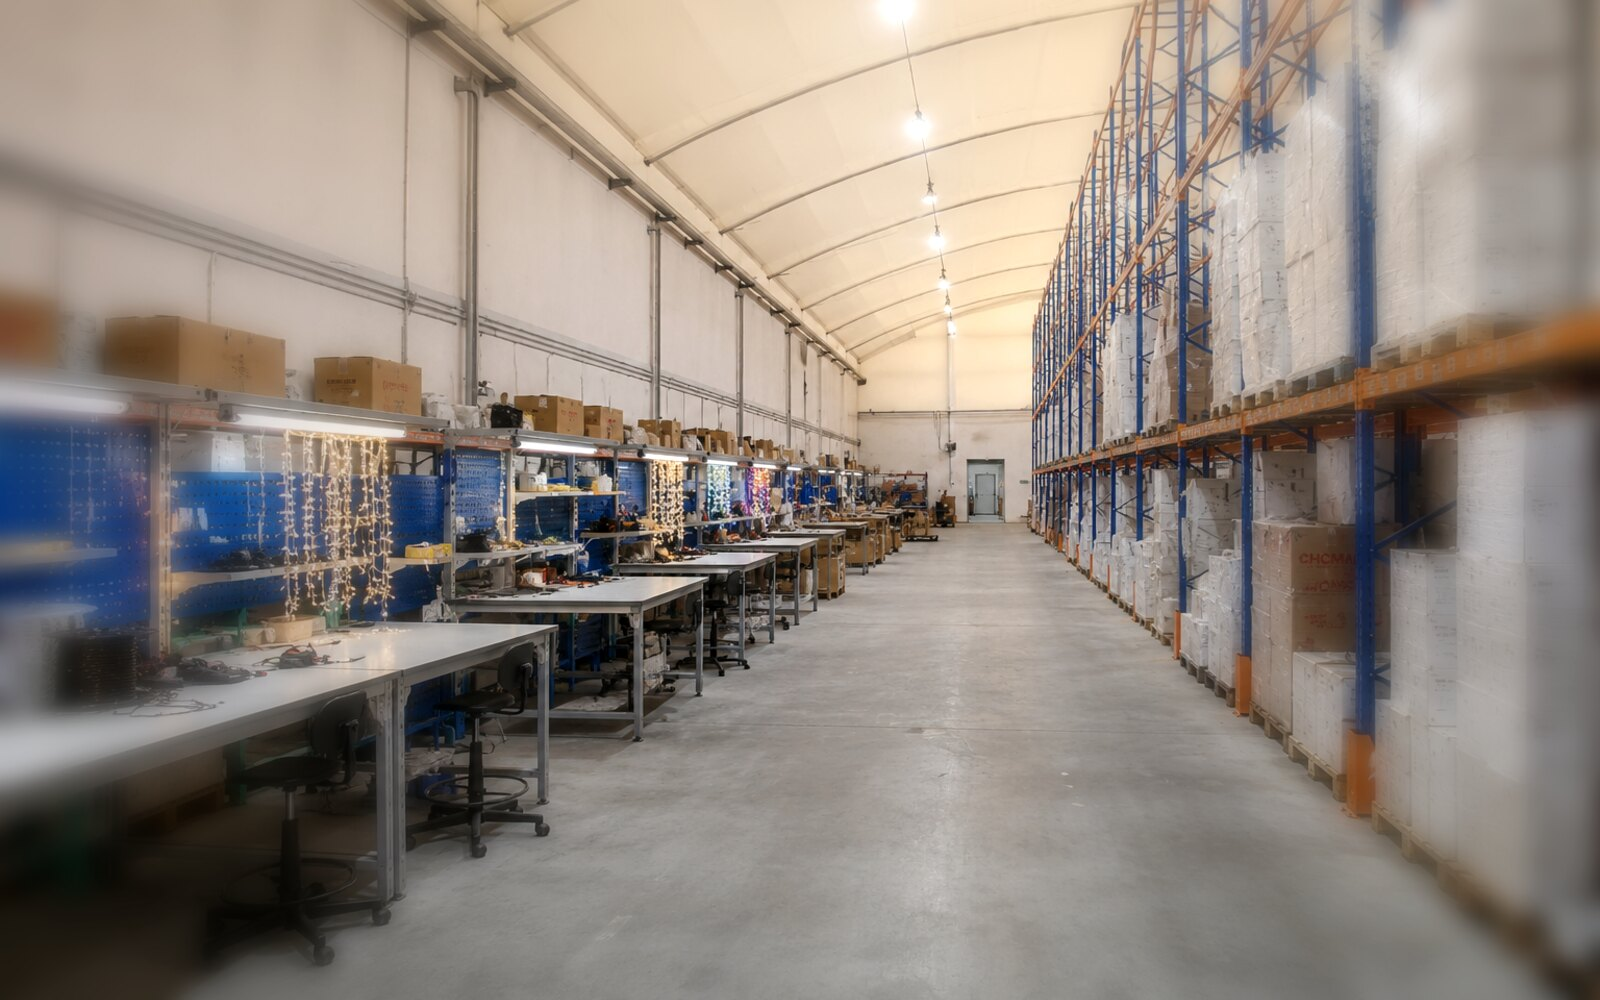
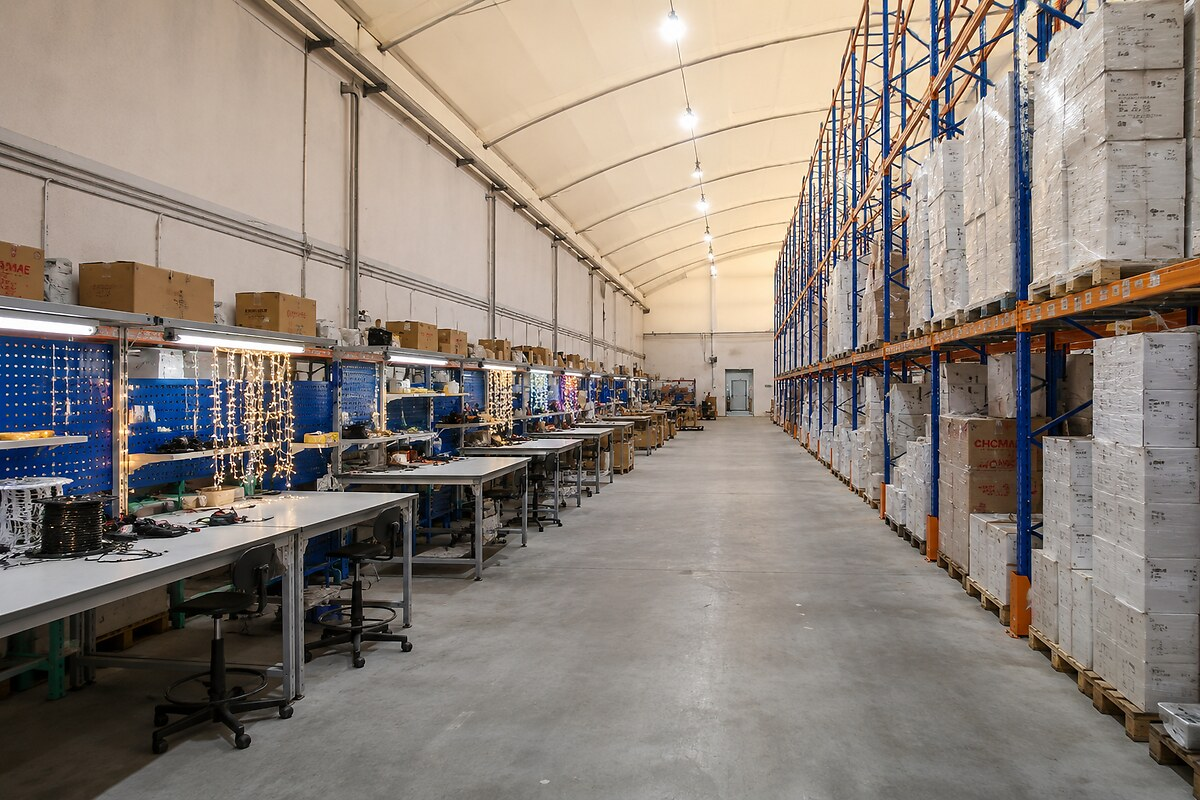
Этапы 01–03: текст слева, фото целиком справа (синхронизация с production.html)
- фото показываются целиком, без обрезки; новая двухколоночная раскладка
- index.html и stage1/2/3.jpg обновлены

diff --git a/index.html b/index.html
@@ -93,26 +93,35 @@ ul.checks li::after{content:"";position:absolute;left:6px;top:8px;width:8px;heig
   font-family:'Open Sans Condensed',sans-serif;font-weight:700;text-transform:uppercase;
   font-size:21px;line-height:1.25}
 
-/* ===== Секции-этапы: одно фото, встроенное в тёмную текстуру бренда ===== */
-.stage{position:relative;color:#fff;padding:88px 0;overflow:hidden;background:var(--tp-dark-2)}
-.stage-bg{position:absolute;inset:0;z-index:0;background-size:cover;background-position:center;background-color:var(--tp-dark-2)}
-/* виньетка: фото мягко растворяется в фирменный тёмный по краям (углы уже подразмыты в самом файле) */
-.stage-vig{position:absolute;inset:0;z-index:1;pointer-events:none;
-  background:radial-gradient(120% 132% at 50% 42%,rgba(43,50,60,0) 36%,rgba(43,50,60,.62) 72%,var(--tp-dark-2) 100%)}
-/* затемнение под текст: сильнее слева (там текст) и снизу, фото просматривается справа */
-.stage-ov{position:absolute;inset:0;z-index:2;background:
-  linear-gradient(90deg,rgba(31,36,44,.93) 0%,rgba(31,36,44,.84) 30%,rgba(31,36,44,.62) 62%,rgba(31,36,44,.50) 100%),
-  linear-gradient(180deg,rgba(31,36,44,.40) 0%,rgba(31,36,44,.10) 28%,rgba(31,36,44,.58) 100%)}
-.stage .wrap{position:relative;z-index:3}
+/* ===== Секции-этапы: текст слева, фото целиком справа ===== */
+.stage{position:relative;color:#fff;padding:76px 0;background:linear-gradient(180deg,#333c48 0%,#2b323c 100%)}
+.stage+.stage{box-shadow:inset 0 1px 0 rgba(255,255,255,.05)}
 .stage .eyebrow{color:var(--tp-yellow)}
-.stage h2,.stage h3{color:#fff;text-shadow:0 2px 14px rgba(0,0,0,.45)}
-.stage .lead{color:#e6eaef}
+.stage h2,.stage h3{color:#fff}
+.stage .lead{color:#dfe4ea}
 .stage .pull{color:#fff}
 .stage .note{color:#c3cad3}
 .stage ul.checks li{color:#eef1f4}
-.stage .lead,.stage ul.checks li,.stage .note{text-shadow:0 1px 8px rgba(0,0,0,.5)}
-@media (max-width:640px){
-  .stage-ov{background:linear-gradient(180deg,rgba(31,36,44,.82) 0%,rgba(31,36,44,.70) 40%,rgba(31,36,44,.9) 100%)}
+.stage-grid{display:grid;grid-template-columns:1.04fr .96fr;gap:52px;align-items:center}
+.stage-text ul.checks{grid-template-columns:1fr;gap:11px;margin-top:22px}
+.stage-text .pull,.stage-text .note{margin-bottom:0}
+/* фото целиком, в аккуратной «карточке» поверх тёмного фона */
+.stage-photo{margin:0;position:relative}
+.stage-photo img{display:block;width:100%;height:auto;border-radius:14px;
+  box-shadow:0 28px 64px rgba(0,0,0,.5),0 0 0 1px rgba(255,255,255,.08)}
+/* фирменная акцент-планка слева от фото */
+.stage-photo::before{content:"";position:absolute;left:-14px;top:28px;bottom:28px;width:4px;
+  border-radius:4px;background:var(--tp-yellow)}
+/* лёгкая глубина по самым краям — изображение не обрезается */
+.stage-photo::after{content:"";position:absolute;inset:0;border-radius:14px;pointer-events:none;
+  box-shadow:inset 0 0 55px rgba(16,20,26,.4)}
+@media (max-width:860px){
+  .stage-grid{grid-template-columns:1fr;gap:28px}
+  .stage-text ul.checks{grid-template-columns:1fr 1fr}
+  .stage-photo::before{display:none}
+}
+@media (max-width:540px){
+  .stage-text ul.checks{grid-template-columns:1fr}
 }
 
 /* ===== «Почему выбирают» — тёмная лента ===== */
@@ -173,79 +182,85 @@ ul.checks li::after{content:"";position:absolute;left:6px;top:8px;width:8px;heig
 <!-- ============ РАЗРАБОТКА В РОССИИ ============ -->
 <!-- ФОТО ЭТАПА: одно фото images/stage1.jpg (разработка/испытания) -->
 <section class="stage">
-  <div class="stage-bg" style="background-image:url('images/stage1.jpg')"></div>
-  <div class="stage-vig"></div>
-  <div class="stage-ov"></div>
-  <div class="wrap">
-    <span class="eyebrow">Этап 01</span>
-    <h2 class="sec-title">Разработка начинается в России</h2>
-    <div class="accent-bar"></div>
-    <p class="lead">Каждый продукт TEAMPROF начинается с идеи, инженерной проработки и анализа потребностей рынка.
-      Мы не занимаемся простым копированием существующих решений: наша команда изучает опыт эксплуатации продукции,
-      анализирует запросы клиентов и разрабатывает решения, которые учитывают реальные условия работы на объектах.</p>
-    <ul class="checks">
-      <li>Разработка технического задания</li>
-      <li>Проектирование конструктивных решений</li>
-      <li>Подбор материалов и комплектующих</li>
-      <li>Тестирование и испытания опытных образцов</li>
-      <li>Проверка надёжности и безопасности продукции</li>
-      <li>Доработка изделий по результатам испытаний</li>
-    </ul>
-    <p class="pull">Каждое решение проходит путь от инженерной идеи до готового продукта.</p>
+  <div class="wrap stage-grid">
+    <div class="stage-text">
+      <span class="eyebrow">Этап 01</span>
+      <h2 class="sec-title">Разработка начинается в России</h2>
+      <div class="accent-bar"></div>
+      <p class="lead">Каждый продукт TEAMPROF начинается с идеи, инженерной проработки и анализа потребностей рынка.
+        Мы не занимаемся простым копированием существующих решений: наша команда изучает опыт эксплуатации продукции,
+        анализирует запросы клиентов и разрабатывает решения, которые учитывают реальные условия работы на объектах.</p>
+      <ul class="checks">
+        <li>Разработка технического задания</li>
+        <li>Проектирование конструктивных решений</li>
+        <li>Подбор материалов и комплектующих</li>
+        <li>Тестирование и испытания опытных образцов</li>
+        <li>Проверка надёжности и безопасности продукции</li>
+        <li>Доработка изделий по результатам испытаний</li>
+      </ul>
+      <p class="pull">Каждое решение проходит путь от инженерной идеи до готового продукта.</p>
+    </div>
+    <figure class="stage-photo">
+      <img src="images/stage1.jpg" alt="TEAMPROF LAB — исследования и разработка" loading="lazy">
+    </figure>
   </div>
 </section>
 
 <!-- ============ ПРОИЗВОДСТВО ПОД КОНТРОЛЕМ ============ -->
 <!-- ФОТО ЭТАПА: одно фото images/stage2.jpg (производство/контроль) -->
 <section class="stage">
-  <div class="stage-bg" style="background-image:url('images/stage2.jpg')"></div>
-  <div class="stage-vig"></div>
-  <div class="stage-ov"></div>
-  <div class="wrap">
-    <span class="eyebrow">Этап 02</span>
-    <h2 class="sec-title">Производство под контролем TEAMPROF</h2>
-    <div class="accent-bar"></div>
-    <p class="lead">После завершения разработки производство размещается на проверенных производственных площадках,
-      прошедших аудит и подтвердивших соответствие нашим требованиям. Мы используем современную модель контрактного
-      производства, которая позволяет сочетать высокий уровень качества, гибкость и конкурентоспособную стоимость
-      продукции. При этом TEAMPROF сохраняет полный контроль над производственным процессом.</p>
-    <ul class="checks">
-      <li>Качество материалов и комплектующих</li>
-      <li>Соблюдение технических требований</li>
-      <li>Производственные процессы</li>
-      <li>Качество сборки</li>
-      <li>Качество упаковки</li>
-      <li>Соответствие продукции утверждённым характеристикам</li>
-    </ul>
-    <p class="note">Мы выбираем не самые дешёвые решения, а наиболее надёжные и прогнозируемые с точки зрения
-      качества и срока службы продукции.</p>
+  <div class="wrap stage-grid">
+    <div class="stage-text">
+      <span class="eyebrow">Этап 02</span>
+      <h2 class="sec-title">Производство под контролем TEAMPROF</h2>
+      <div class="accent-bar"></div>
+      <p class="lead">После завершения разработки производство размещается на проверенных производственных площадках,
+        прошедших аудит и подтвердивших соответствие нашим требованиям. Мы используем современную модель контрактного
+        производства, которая позволяет сочетать высокий уровень качества, гибкость и конкурентоспособную стоимость
+        продукции. При этом TEAMPROF сохраняет полный контроль над производственным процессом.</p>
+      <ul class="checks">
+        <li>Качество материалов и комплектующих</li>
+        <li>Соблюдение технических требований</li>
+        <li>Производственные процессы</li>
+        <li>Качество сборки</li>
+        <li>Качество упаковки</li>
+        <li>Соответствие продукции утверждённым характеристикам</li>
+      </ul>
+      <p class="note">Мы выбираем не самые дешёвые решения, а наиболее надёжные и прогнозируемые с точки зрения
+        качества и срока службы продукции.</p>
+    </div>
+    <figure class="stage-photo">
+      <img src="images/stage2.jpg" alt="Контроль производства TEAMPROF — оператор у станка" loading="lazy">
+    </figure>
   </div>
 </section>
 
 <!-- ============ СБОРОЧНЫЕ ПЛОЩАДИ В РОССИИ ============ -->
 <!-- ФОТО ЭТАПА: одно фото images/stage3.jpg (сборка/упаковка) -->
 <section class="stage">
-  <div class="stage-bg" style="background-image:url('images/stage3.jpg')"></div>
-  <div class="stage-vig"></div>
-  <div class="stage-ov"></div>
-  <div class="wrap">
-    <span class="eyebrow">Этап 03</span>
-    <h2 class="sec-title">Собственные сборочные площади в России</h2>
-    <div class="accent-bar"></div>
-    <p class="lead">TEAMPROF располагает собственными производственно-сборочными площадями на территории
-      Российской Федерации. Это позволяет нам участвовать в создании продукта не только на этапе разработки,
-      но и непосредственно в процессе подготовки продукции к поставке клиенту.</p>
-    <ul class="checks">
-      <li>Входной контроль комплектующих</li>
-      <li>Сборка готовых изделий</li>
-      <li>Комплектация заказов</li>
-      <li>Тестирование продукции</li>
-      <li>Контроль качества перед отгрузкой</li>
-      <li>Маркировка продукции</li>
-      <li>Адаптация изделий под требования конкретных проектов</li>
-    </ul>
-    <p class="pull">Собственные сборочные мощности позволяют оперативно реагировать на потребности рынка,
-      сокращать сроки поставки и обеспечивать дополнительный контроль качества на финальном этапе.</p>
+  <div class="wrap stage-grid">
+    <div class="stage-text">
+      <span class="eyebrow">Этап 03</span>
+      <h2 class="sec-title">Собственные сборочные площади в России</h2>
+      <div class="accent-bar"></div>
+      <p class="lead">TEAMPROF располагает собственными производственно-сборочными площадями на территории
+        Российской Федерации. Это позволяет нам участвовать в создании продукта не только на этапе разработки,
+        но и непосредственно в процессе подготовки продукции к поставке клиенту.</p>
+      <ul class="checks">
+        <li>Входной контроль комплектующих</li>
+        <li>Сборка готовых изделий</li>
+        <li>Комплектация заказов</li>
+        <li>Тестирование продукции</li>
+        <li>Контроль качества перед отгрузкой</li>
+        <li>Маркировка продукции</li>
+        <li>Адаптация изделий под требования конкретных проектов</li>
+      </ul>
+      <p class="pull">Собственные сборочные мощности позволяют оперативно реагировать на потребности рынка,
+        сокращать сроки поставки и обеспечивать дополнительный контроль качества на финальном этапе.</p>
+    </div>
+    <figure class="stage-photo">
+      <img src="images/stage3.jpg" alt="Сборочный цех и склад готовой продукции TEAMPROF" loading="lazy">
+    </figure>
   </div>
 </section>
 